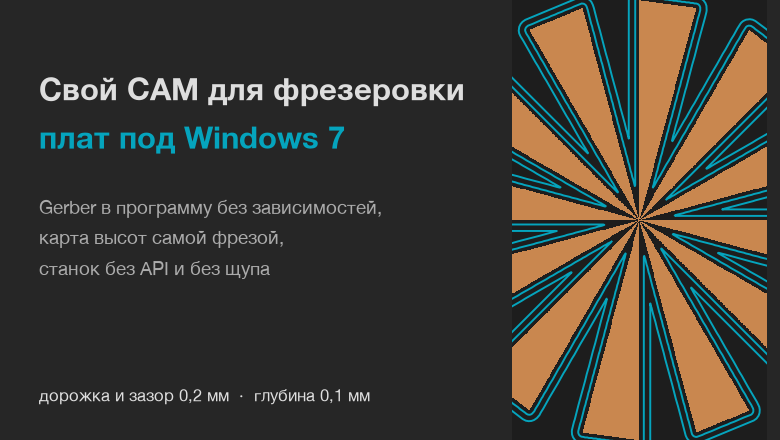
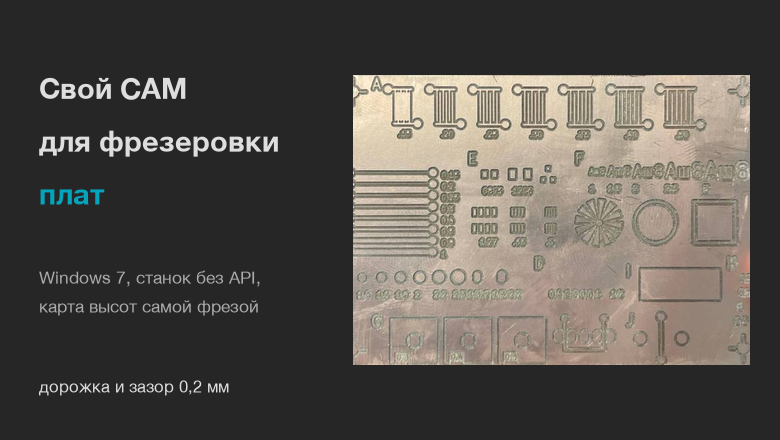
Статья: обложка с фото тестовой платы

diff --git a/docs/article/figures.py b/docs/article/figures.py
@@ -371,26 +371,44 @@ def fig_stages():
     save(fig, "stages.png")
 
 
+def board_photo():
+    """The test board from photos/testboard-hand.jpg, squared to 84 x 58 mm.
+
+    The corners were read off the photo by eye. The fingers reach over the left
+    and the right edge, so a strip on both sides is cut away.
+    """
+    from PIL import Image
+    im = Image.open(HERE / "photos" / "testboard-hand.jpg").convert("RGB")
+    src = [(103, 362), (978, 357), (996, 962), (101, 978)]
+    w, h = 1680, 1160
+    dst = [(0, 0), (w, 0), (w, h), (0, h)]
+    a, b = [], []
+    for (x, y), (u, v) in zip(dst, src):
+        a.append([x, y, 1, 0, 0, 0, -u * x, -u * y])
+        b.append(u)
+        a.append([0, 0, 0, x, y, 1, -v * x, -v * y])
+        b.append(v)
+    coef = np.linalg.solve(np.array(a, float), np.array(b, float))
+    board = im.transform((w, h), Image.PERSPECTIVE, tuple(coef), Image.BICUBIC)
+    return board.crop((70, 6, 1640, h - 6))
+
+
 def fig_cover():
-    """Feed cover, 780x440, full-bleed."""
-    d = load("star.json")
-    cr = d["crop"]
-    box = extent(cr)
+    """Feed cover, 780x440: the test board whole on the right, the title on the left."""
+    board = np.asarray(board_photo(), float) / 255
+    bh, bw = board.shape[:2]
     fig = plt.figure(figsize=(7.8, 4.4), dpi=100, facecolor=C["card"])
-    ax = fig.add_axes([0.64, 0.0, 0.36, 1.0])
-    ax.set_facecolor(C["board"])
-    copper_img(ax, cr)
-    paths_in(d["iso"], box, ax, color=C["mine"], lw=1.4)
-    ax.set_xlim(box[0] + 1.9, box[1] - 1.9)
-    ax.set_ylim(box[2], box[3])
+    h = 290 / 440
+    w = h * 440 * bw / bh / 780
+    ax = fig.add_axes([1 - w - 30 / 780, (1 - h) / 2, w, h])
+    ax.imshow(board, interpolation="lanczos")
     ax.axis("off")
-    fig.text(0.05, 0.84, "Свой CAM для фрезеровки", fontsize=22, fontweight="bold", va="top")
-    fig.text(0.05, 0.73, "плат под Windows 7", fontsize=22, fontweight="bold", va="top",
-             color=C["mine"])
-    fig.text(0.05, 0.56, "Gerber в программу без зависимостей,\nкарта высот самой фрезой,\n"
-             "станок без API и без щупа", fontsize=13.5, color=C["muted"], va="top", linespacing=1.4)
-    fig.text(0.05, 0.08, "дорожка и зазор 0,2 мм  ·  глубина 0,1 мм", fontsize=12,
-             color=C["ink"], va="bottom")
+    fig.text(0.05, 0.84, "Свой CAM", fontsize=21, fontweight="bold", va="top")
+    fig.text(0.05, 0.72, "для фрезеровки", fontsize=21, fontweight="bold", va="top")
+    fig.text(0.05, 0.60, "плат", fontsize=21, fontweight="bold", va="top", color=C["mine"])
+    fig.text(0.05, 0.40, "Windows 7, станок без API,\nкарта высот самой фрезой", fontsize=12.5,
+             color=C["muted"], va="top", linespacing=1.45)
+    fig.text(0.05, 0.1, "дорожка и зазор 0,2 мм", fontsize=12, color=C["ink"], va="bottom")
     OUT.mkdir(exist_ok=True)
     fig.savefig(OUT / "cover.png", dpi=100, facecolor=C["card"])
     plt.close(fig)
